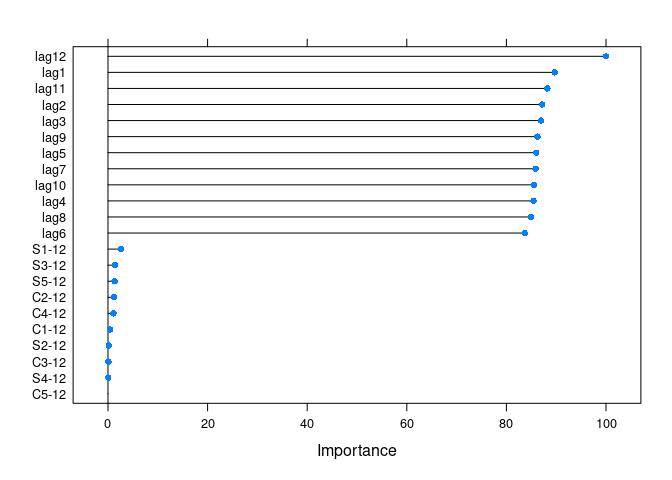
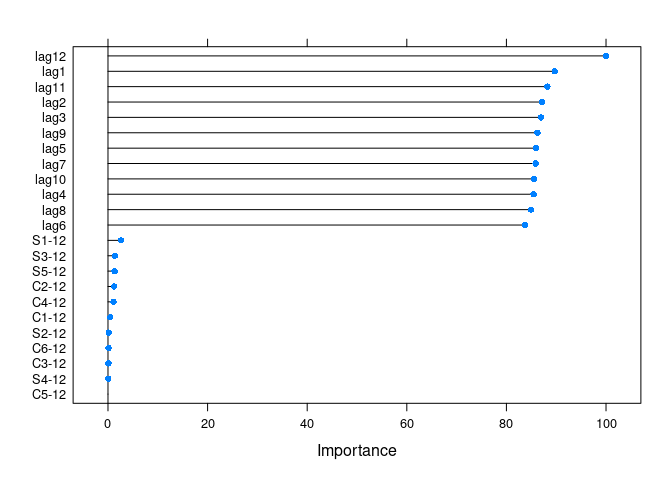
new fabletools methods

Changed region(s): [[0.1562, 0.0938, 0.9062, 0.7188], [0.0312, 0.125, 0.125, 0.8125]]

diff --git a/README.md b/README.md
@@ -24,18 +24,117 @@ The development version from [GitHub](https://github.com/) with:
 devtools::install_github("Akai01/caretForecast")
 ```
 
-## Example
-
-### Note: User can train any caret supported regression model.
+# Examples
 
 These are basic examples which shows you how to solve common problems
 with different ML models.
 
+## Examples of tidy forecasting via formula interface:
+
+Load the packages:
+
 ``` r
 library(caretForecast)
-#> Registered S3 method overwritten by 'quantmod':
-#>   method            from
-#>   as.zoo.data.frame zoo
+library(tsibble)
+library(dplyr)
+```
+
+``` r
+tourism_syd <- tourism %>%
+  filter(Region == "Sydney")
+
+tourism_syd %>%
+  group_by(Purpose) %>%
+  slice(1)
+#> # A tsibble: 4 x 5 [1Q]
+#> # Key:       Region, State, Purpose [4]
+#> # Groups:    Purpose [4]
+#>   Quarter Region State           Purpose  Trips
+#>     <qtr> <chr>  <chr>           <chr>    <dbl>
+#> 1 1998 Q1 Sydney New South Wales Business  525.
+#> 2 1998 Q1 Sydney New South Wales Holiday   828.
+#> 3 1998 Q1 Sydney New South Wales Other     117.
+#> 4 1998 Q1 Sydney New South Wales Visiting  818.
+```
+
+``` r
+tourism_syd %>%
+  autoplot(Trips)
+```
+
+<img src="man/figures/README-plots-1.png" width="100%" />
+
+``` r
+fit <- tourism_syd %>%
+  model(
+    caret = CARET(Trips ~ fourier(K = 2) + order(8) , caret_method = "lasso", verbose = FALSE)
+  )
+fit
+#> # A mable: 4 x 4
+#> # Key:     Region, State, Purpose [4]
+#>   Region State           Purpose    caret
+#>   <chr>  <chr>           <chr>    <model>
+#> 1 Sydney New South Wales Business <CARET>
+#> 2 Sydney New South Wales Holiday  <CARET>
+#> 3 Sydney New South Wales Other    <CARET>
+#> 4 Sydney New South Wales Visiting <CARET>
+```
+
+``` r
+fc <- fit %>%
+  forecast(h = "5 years")
+fc
+#> # A fable: 80 x 7 [1Q]
+#> # Key:     Region, State, Purpose, .model [4]
+#>    Region State           Purpose  .model Quarter          Trips .mean
+#>    <chr>  <chr>           <chr>    <chr>    <qtr>         <dist> <dbl>
+#>  1 Sydney New South Wales Business caret  2018 Q1 N(699, 172029)  699.
+#>  2 Sydney New South Wales Business caret  2018 Q2 N(815, 172029)  815.
+#>  3 Sydney New South Wales Business caret  2018 Q3 N(855, 172029)  855.
+#>  4 Sydney New South Wales Business caret  2018 Q4 N(849, 172029)  849.
+#>  5 Sydney New South Wales Business caret  2019 Q1 N(725, 172029)  725.
+#>  6 Sydney New South Wales Business caret  2019 Q2 N(809, 172029)  809.
+#>  7 Sydney New South Wales Business caret  2019 Q3 N(846, 172029)  846.
+#>  8 Sydney New South Wales Business caret  2019 Q4 N(837, 172029)  837.
+#>  9 Sydney New South Wales Business caret  2020 Q1 N(723, 172029)  723.
+#> 10 Sydney New South Wales Business caret  2020 Q2 N(809, 172029)  809.
+#> # … with 70 more rows
+```
+
+``` r
+fc %>%
+  hilo(level = c(80, 95))
+#> # A tsibble: 80 x 9 [1Q]
+#> # Key:       Region, State, Purpose, .model [4]
+#>    Region State           Purpose  .model Quarter          Trips .mean
+#>    <chr>  <chr>           <chr>    <chr>    <qtr>         <dist> <dbl>
+#>  1 Sydney New South Wales Business caret  2018 Q1 N(699, 172029)  699.
+#>  2 Sydney New South Wales Business caret  2018 Q2 N(815, 172029)  815.
+#>  3 Sydney New South Wales Business caret  2018 Q3 N(855, 172029)  855.
+#>  4 Sydney New South Wales Business caret  2018 Q4 N(849, 172029)  849.
+#>  5 Sydney New South Wales Business caret  2019 Q1 N(725, 172029)  725.
+#>  6 Sydney New South Wales Business caret  2019 Q2 N(809, 172029)  809.
+#>  7 Sydney New South Wales Business caret  2019 Q3 N(846, 172029)  846.
+#>  8 Sydney New South Wales Business caret  2019 Q4 N(837, 172029)  837.
+#>  9 Sydney New South Wales Business caret  2020 Q1 N(723, 172029)  723.
+#> 10 Sydney New South Wales Business caret  2020 Q2 N(809, 172029)  809.
+#> # … with 70 more rows, and 2 more variables: `80%` <hilo>, `95%` <hilo>
+```
+
+``` r
+fc %>%
+  autoplot(tourism_syd)
+```
+
+<img src="man/figures/README-plotfc-1.png" width="100%" />
+
+## Examples with `ts` objects:
+
+### Note: User can train any caret supported regression model.
+
+``` r
+library(caretForecast)
+
 # Forecasting with glmboost
 data(retail_wide, package = "caretForecast")
 
@@ -49,8 +148,10 @@ testing_data <- dtlist$test
 
 fit <- ARml(training_data, max_lag = 12, caret_method = "glmboost", 
             verbose = FALSE)
-#> Loading required package: lattice
-#> Loading required package: ggplot2
+#> Registered S3 method overwritten by 'inum':
+#>   method          from   
+#>   format.interval tsibble
+
 forecast(fit, h = length(testing_data), level = c(80,95), PI = TRUE)-> fc
 
 accuracy(fc, testing_data)
@@ -60,6 +161,8 @@ accuracy(fc, testing_data)
 #>                   ACF1 Theil's U
 #> Training set 0.5707204        NA
 #> Test set     0.3971016 0.7547318
+
+
 autoplot(fc) + 
   autolayer(testing_data, series = "testing_data")
 ```
@@ -67,6 +170,8 @@ autoplot(fc) +
 <img src="man/figures/README-example-1.png" width="100%" />
 
 ``` r
+
+
 ## NOTE : Promotions, holidays, and other external variables can be added in the model via xreg argument. Please look at the documentation of ARml.
 
 # Forecasting with cubist regression
@@ -93,6 +198,7 @@ accuracy(fc, testing_data)
 #>                    ACF1 Theil's U
 #> Training set  0.2309758        NA
 #> Test set     -0.1450719 0.1701567
+
 autoplot(fc) + 
   autolayer(testing_data, series = "testing_data")
 ```
@@ -100,6 +206,8 @@ autoplot(fc) +
 <img src="man/figures/README-example-2.png" width="100%" />
 
 ``` r
+
+
 # Forecasting using Support Vector Machines with Linear Kernel
 
 data(retail_wide, package = "caretForecast")
@@ -118,12 +226,13 @@ fit <- ARml(training_data, max_lag = 12, caret_method = "svmLinear2",
 forecast(fit, h = length(testing_data), level = c(80,95), PI = TRUE)-> fc
 
 accuracy(fc, testing_data)
-#>                     ME     RMSE      MAE        MPE     MAPE      MASE
-#> Training set  1.086666 15.67422 11.87520 0.06663619 2.497392 0.3957375
-#> Test set     10.671509 16.75893 12.72986 1.33830385 1.611293 0.4242188
-#>                     ACF1 Theil's U
-#> Training set  0.09739853        NA
-#> Test set     -0.27328009 0.2062128
+#>                      ME     RMSE      MAE        MPE     MAPE      MASE
+#> Training set  0.9564442 14.96132 11.49181 0.03448939 2.389909 0.3829612
+#> Test set     11.5443091 17.28817 12.13599 1.45002115 1.528606 0.4044282
+#>                    ACF1 Theil's U
+#> Training set  0.1186887        NA
+#> Test set     -0.1205859 0.2162142
+
 autoplot(fc) + 
   autolayer(testing_data, series = "testing_data")
 ```
@@ -140,29 +249,32 @@ get_var_imp(fc)
 get_var_imp(fc, plot = F)
 #> loess r-squared variable importance
 #> 
-#>   only 20 most important variables shown (out of 22)
+#>   only 20 most important variables shown (out of 23)
 #> 
-#>         Overall
-#> lag12 100.00000
-#> lag1   89.70809
-#> lag11  88.21434
-#> lag2   87.15896
-#> lag3   86.95035
-#> lag9   86.22539
-#> lag5   85.98743
-#> lag7   85.86392
-#> lag10  85.56408
-#> lag4   85.44561
-#> lag8   84.95210
-#> lag6   83.66422
-#> S1-12   2.62893
-#> S3-12   1.38199
-#> S5-12   1.32829
-#> C2-12   1.21307
-#> C4-12   1.09981
-#> C1-12   0.44682
-#> S2-12   0.14723
-#> C3-12   0.09562
+#>        Overall
+#> lag12 100.0000
+#> lag1   89.7081
+#> lag11  88.2143
+#> lag2   87.1590
+#> lag3   86.9504
+#> lag9   86.2254
+#> lag5   85.9874
+#> lag7   85.8639
+#> lag10  85.5641
+#> lag4   85.4456
+#> lag8   84.9521
+#> lag6   83.6642
+#> S1-12   2.6289
+#> S3-12   1.3820
+#> S5-12   1.3283
+#> C2-12   1.2131
+#> C4-12   1.0998
+#> C1-12   0.4468
+#> S2-12   0.1472
+#> C6-12   0.1301
+
+
+
 # Forecasting using Ridge Regression
 data(retail_wide, package = "caretForecast")
 
@@ -180,12 +292,13 @@ fit <- ARml(training_data, max_lag = 12, caret_method = "ridge",
 forecast(fit, h = length(testing_data), level = c(80,95), PI = TRUE)-> fc
 
 accuracy(fc, testing_data)
-#>                     ME     RMSE      MAE        MPE     MAPE      MASE
-#> Training set 0.1414756  8.88367  6.44208 -0.0953757 3.126316 0.4180182
-#> Test set     0.9965672 17.71459 13.30744  0.7019753 4.092068 0.8635023
-#>                     ACF1 Theil's U
-#> Training set 0.004518837        NA
-#> Test set     0.389409945 0.6513039
+#>                     ME      RMSE      MAE         MPE     MAPE      MASE
+#> Training set 0.1284069  8.284316  6.00773 -0.08485635 2.948404 0.3898338
+#> Test set     1.0161542 17.826752 13.38819  0.71591188 4.119535 0.8687421
+#>                    ACF1 Theil's U
+#> Training set 0.01202197        NA
+#> Test set     0.44042369 0.6568084
+
 autoplot(fc) + 
   autolayer(testing_data, series = "testing_data")
 ```
@@ -202,27 +315,27 @@ get_var_imp(fc)
 get_var_imp(fc, plot = F)
 #> loess r-squared variable importance
 #> 
-#>   only 20 most important variables shown (out of 22)
+#>   only 20 most important variables shown (out of 23)
 #> 
-#>         Overall
-#> lag12 100.00000
-#> lag1   89.57697
-#> lag11  86.89260
-#> lag2   85.81967
-#> lag3   84.07269
-#> lag10  83.53358
-#> lag9   82.52774
-#> lag7   82.18917
-#> lag4   81.93730
-#> lag5   81.85290
-#> lag8   81.22696
-#> lag6   79.96364
-#> S1-12   4.51371
-#> S3-12   1.59063
-#> C2-12   1.54661
-#> S5-12   1.53004
-#> C4-12   1.24044
-#> C1-12   0.38784
-#> S2-12   0.35446
-#> S4-12   0.07244
+#>        Overall
+#> lag12 100.0000
+#> lag1   89.5770
+#> lag11  86.8926
+#> lag2   85.8197
+#> lag3   84.0727
+#> lag10  83.5336
+#> lag9   82.5277
+#> lag7   82.1892
+#> lag4   81.9373
+#> lag5   81.8529
+#> lag8   81.2270
+#> lag6   79.9636
+#> S1-12   4.5137
+#> S3-12   1.5906
+#> C2-12   1.5466
+#> S5-12   1.5300
+#> C4-12   1.2404
+#> C1-12   0.3878
+#> S2-12   0.3545
+#> C6-12   0.2761
 ```
